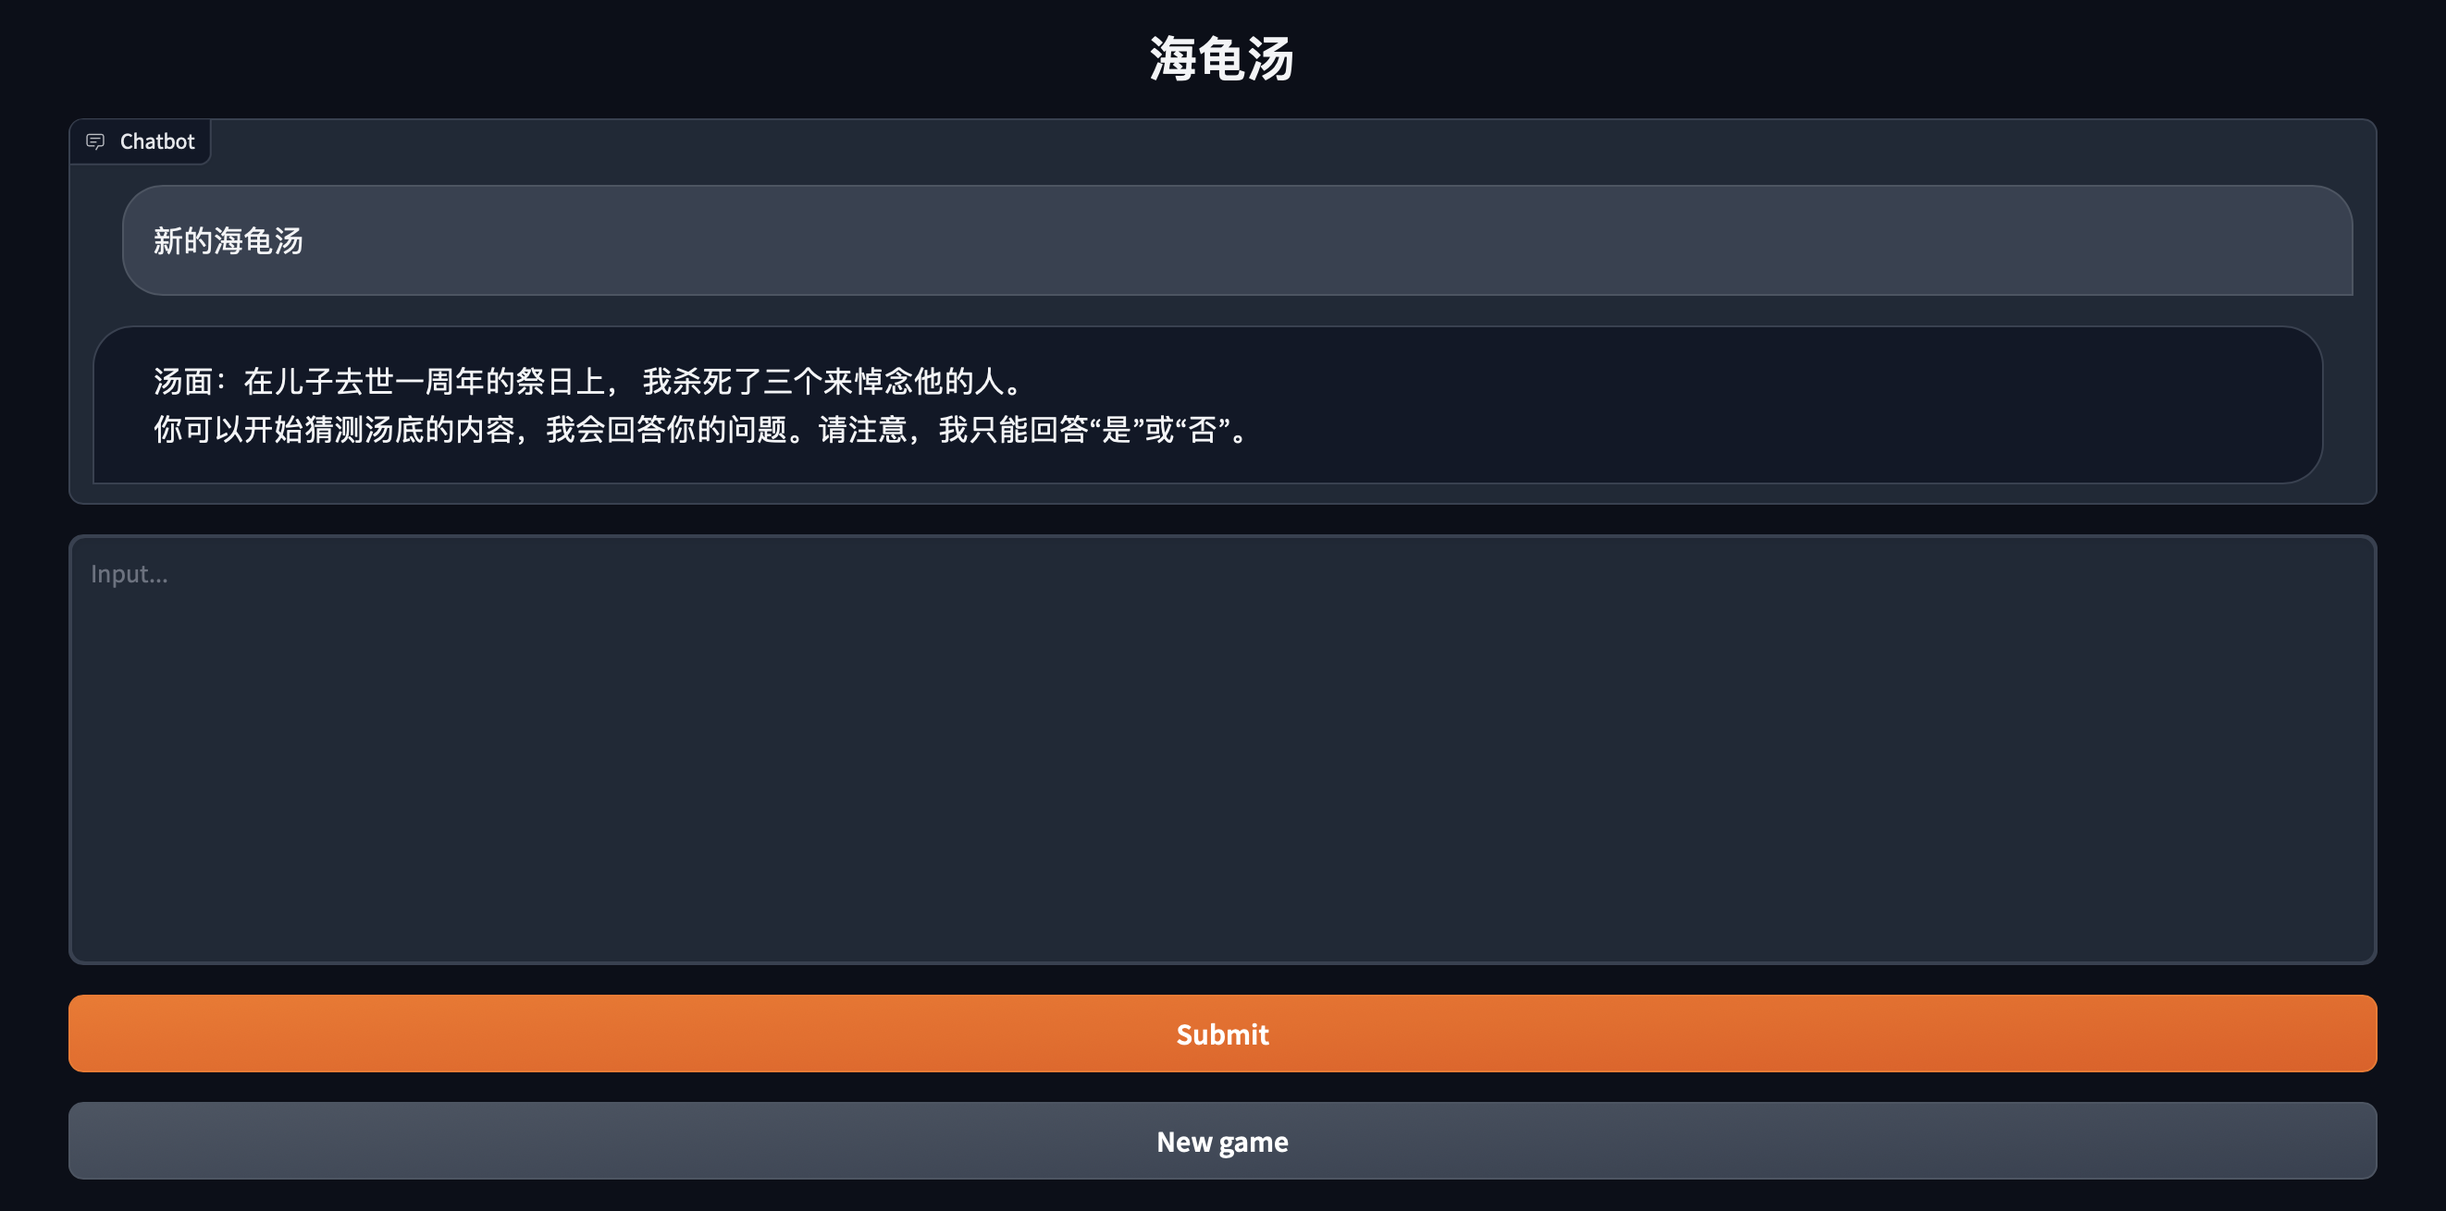
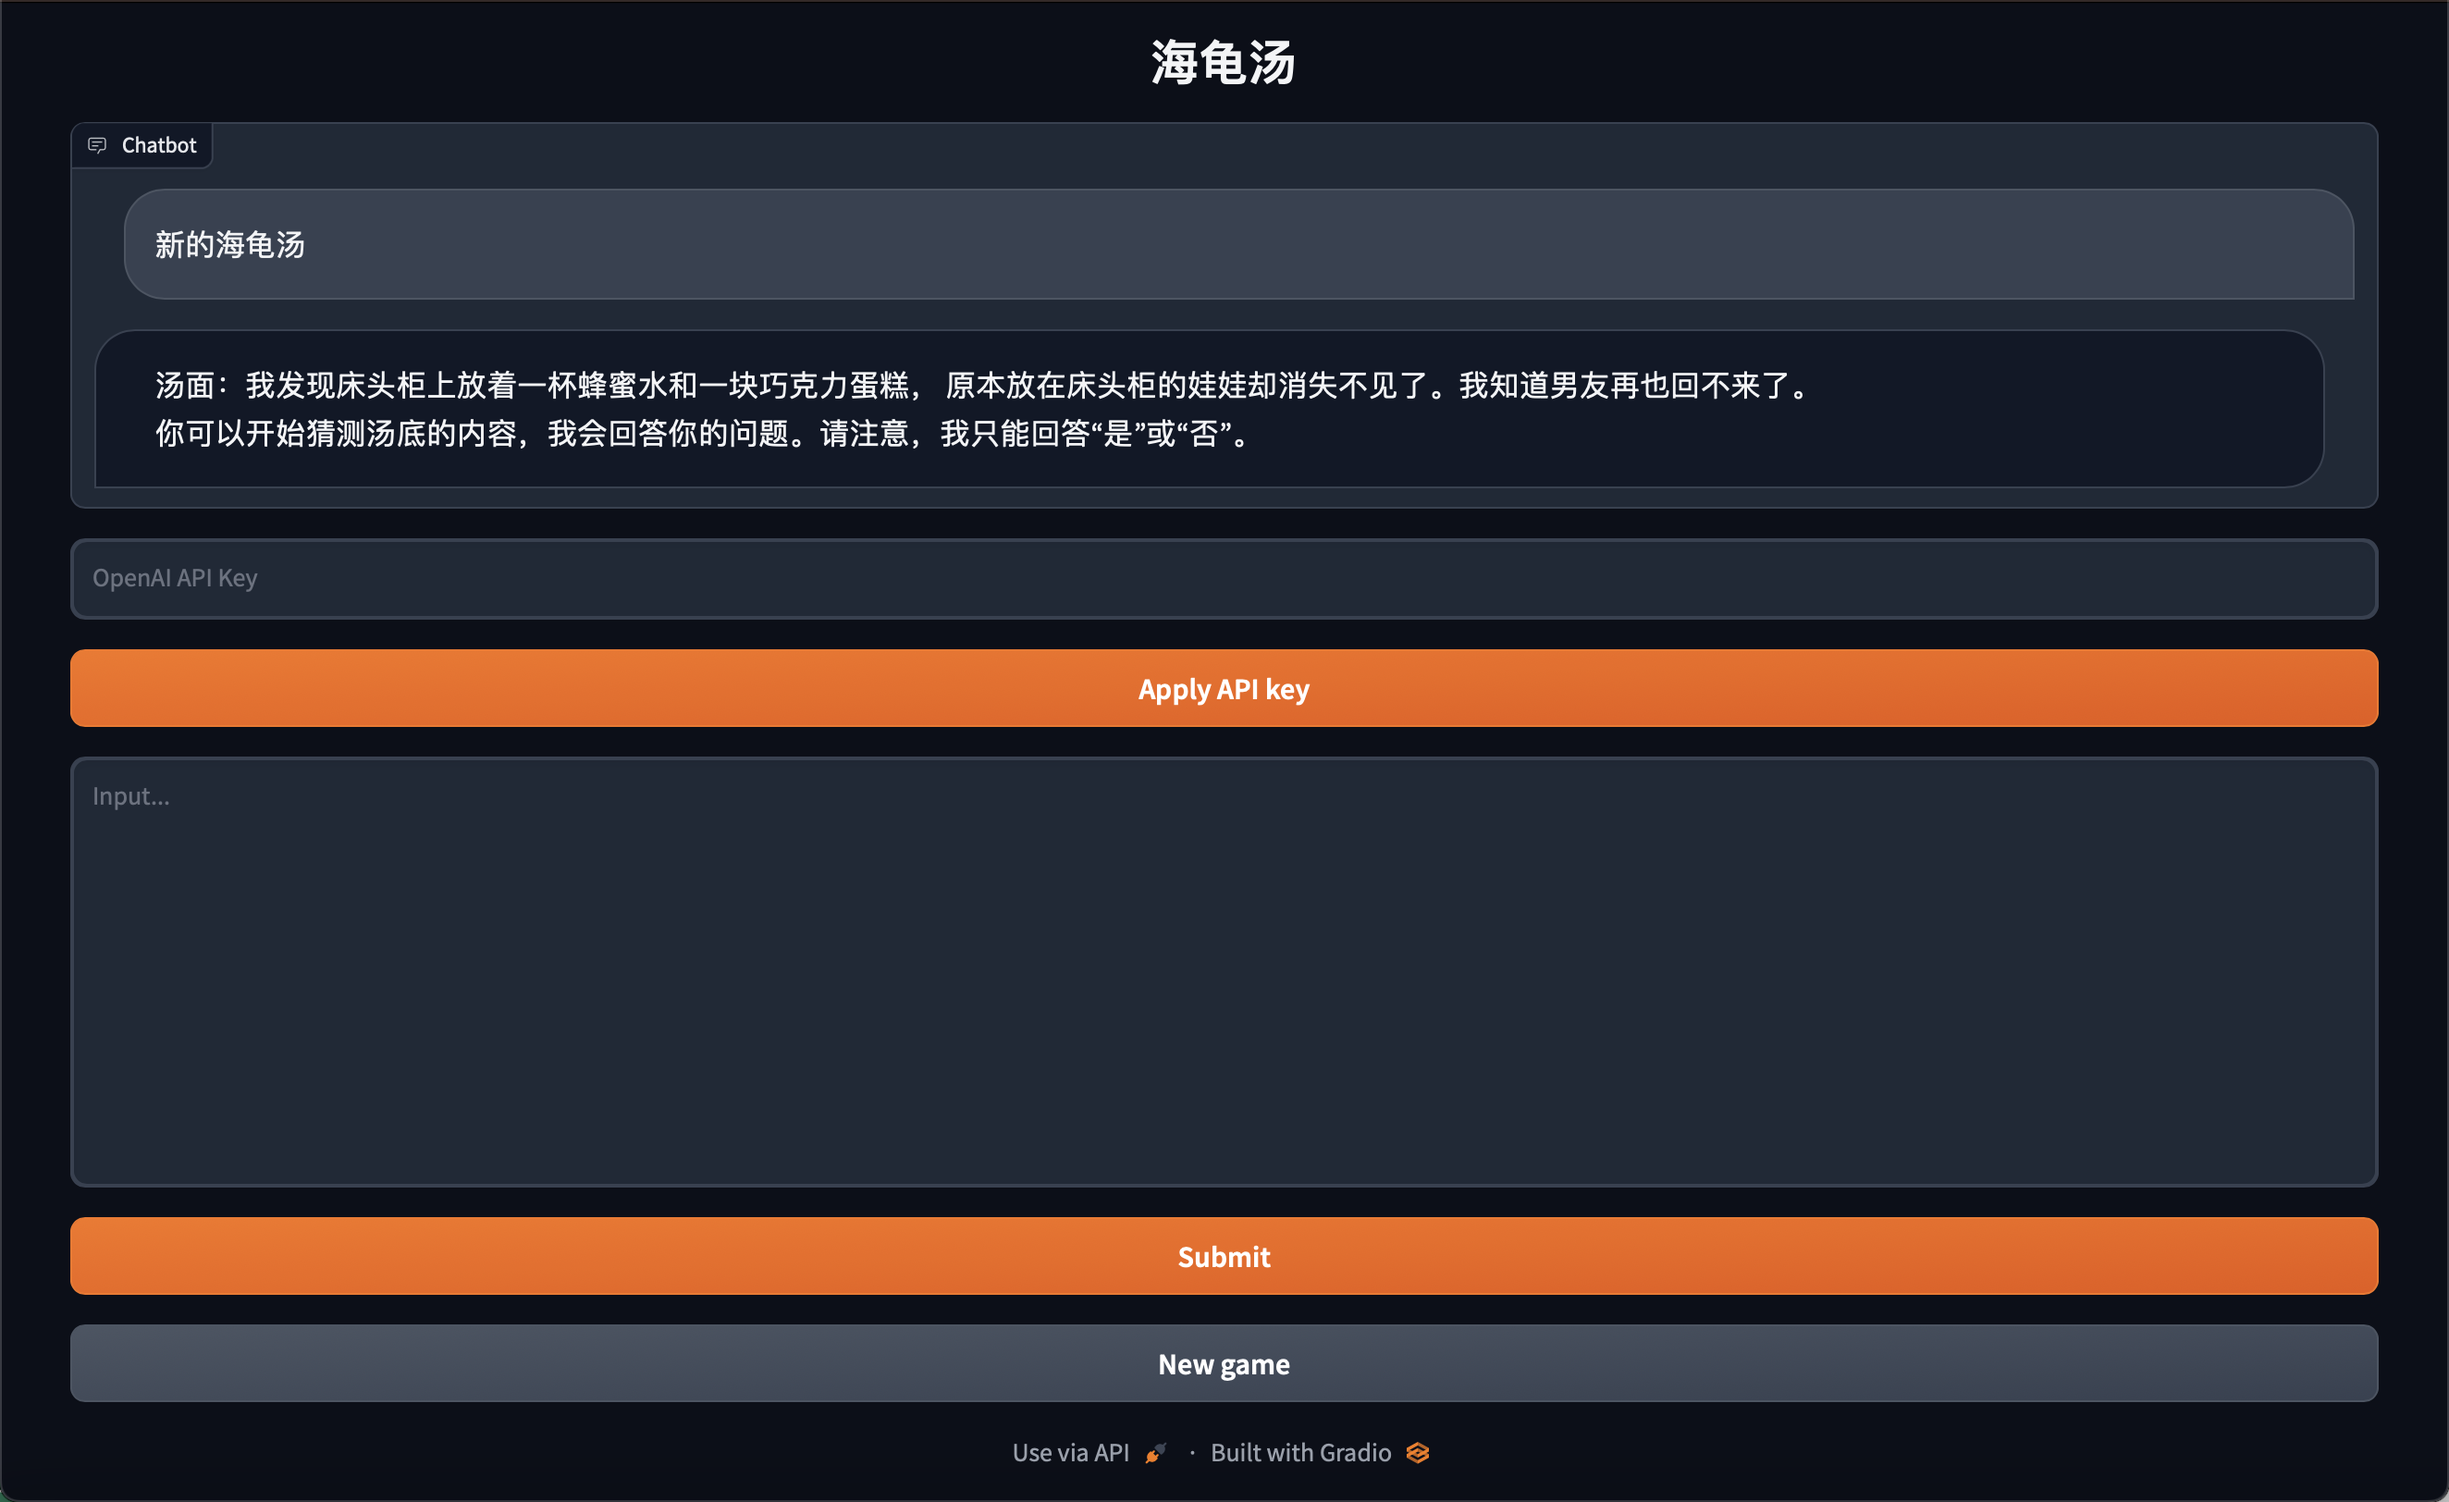
add api input

diff --git a/web_demo_en.py b/web_demo_en.py
@@ -4,7 +4,6 @@ import pandas as pd
 import random as rd
 import os
 import openai
-openai.api_key = "your-openai-api-key"
 
 def postprocess(self, y):
     if y is None:
@@ -86,6 +85,10 @@ def reset_state():
     ]
     return chatbot, messages
 
+def apply_apikey(apikey):
+    openai.api_key = apikey
+    return gr.update(value='')
+
 
 table = pd.read_excel("data/puzzle_en.xlsx")
 question_num = table.values.shape[0]
@@ -100,6 +103,9 @@ with gr.Blocks() as demo:
     chatbot = gr.Chatbot([("New Lateral Thinking Puzzle", f"Story: {story}\n\nYou can ask questions to get the answer. Notice that I can only reply with 'Yes' or 'No'.\n\nInput 'stop' to stop the game, 'finish' to finish the game and move on to next round.")])
     with gr.Row():
         with gr.Column(scale=4):
+            api_key = gr.Textbox(show_label=False, placeholder="OpenAI API Key", lines=1).style(
+                container=False)
+            apiBtn = gr.Button('Apply API key', variant="primary")
             with gr.Column(scale=12):
                 user_input = gr.Textbox(show_label=False, placeholder="Input...", lines=10).style(
                     container=False)
@@ -112,6 +118,8 @@ with gr.Blocks() as demo:
         {"role": "user", "content": "Let's play a lateral thinking puzzle game!"},
         {"role": "assistant", "content": f"OK, I will provide a story, and you can ask questions to get the answer. The story is:\n{story}\n\nNotice that I can only reply with 'Yes' or 'No'."},
     ])
+
+    apiBtn.click(apply_apikey, [api_key], [api_key])
 
     submitBtn.click(predict, [user_input, chatbot, messages], [chatbot, messages],
                     show_progress=True)

diff --git a/web_demo_zh.py b/web_demo_zh.py
@@ -4,7 +4,6 @@ import pandas as pd
 import random as rd
 import os
 import openai
-openai.api_key = "your-openai-api-key"
 
 def postprocess(self, y):
     if y is None:
@@ -86,6 +85,9 @@ def reset_state():
     ]
     return chatbot, messages
 
+def apply_apikey(apikey):
+    openai.api_key = apikey
+    return gr.update(value='')
 
 table = pd.read_excel("data/puzzle_zh.xlsx")
 question_num = table.values.shape[0]
@@ -100,6 +102,9 @@ with gr.Blocks() as demo:
     chatbot = gr.Chatbot([("新的海龟汤", f"汤面：{story}\n\n你可以开始猜测汤底的内容，我会回答你的问题。请注意，我只能回答“是”或“否”。")])
     with gr.Row():
         with gr.Column(scale=4):
+            api_key = gr.Textbox(show_label=False, placeholder="OpenAI API Key", lines=1).style(
+                container=False)
+            apiBtn = gr.Button('Apply API key', variant="primary")
             with gr.Column(scale=12):
                 user_input = gr.Textbox(show_label=False, placeholder="Input...", lines=10).style(
                     container=False)
@@ -112,6 +117,8 @@ with gr.Blocks() as demo:
         {"role": "user", "content": "陪我玩海龟汤。"},
         {"role": "assistant", "content": f"好的，以下是汤面：\n{story}\n\n你可以开始猜测汤底的内容，我会回答你的问题。请注意，我只能回答“是”或“否”。"},
     ])
+
+    apiBtn.click(apply_apikey, [api_key], [api_key])
 
     submitBtn.click(predict, [user_input, chatbot, messages], [chatbot, messages],
                     show_progress=True)

diff --git a/cli_demo_en.py b/cli_demo_en.py
@@ -4,7 +4,8 @@ import openai
 import platform
 import pandas as pd
 import random as rd
-openai.api_key = "your-openai-api-key"
+apikey = input('Please enter your OpenAI API Key')
+openai.api_key = apikey
 
 os_name = platform.system()
 clear_command = 'cls' if os_name == 'Windows' else 'clear'

diff --git a/cli_demo_zh.py b/cli_demo_zh.py
@@ -4,7 +4,8 @@ import openai
 import platform
 import pandas as pd
 import random as rd
-openai.api_key = "your-openai-api-key"
+apikey = input('Please enter your OpenAI API Key')
+openai.api_key = apikey
 
 os_name = platform.system()
 clear_command = 'cls' if os_name == 'Windows' else 'clear'

diff --git a/README.md b/README.md
@@ -14,45 +14,33 @@ cd LLMTextGame
 pip install -r requirements.txt
 ```
 
-由于游戏效果演示是用gpt-3.5，所以使用前要在脚本中 `openai.api_key = "your-openai-api-key"` 填入自己的openai api key。运行脚本前需要在终端挂代理，Windows系统命令行代理：
-
-```shell
-set http_proxy=127.0.0.1:port
-set https_proxy=127.0.0.1:port
-```
-
-Mac或Linux系统命令行代理：
-
-```shell
-export http_proxy=http://127.0.0.1:port
-export https_proxy=http://127.0.0.1:port
-```
+由于游戏效果演示是用gpt-3.5，所以使用时要先在交互界面中输入自己的openai api key。
 
 ### 网页版 Demo
 
 ![web-demo](figure/web_demo.png)
 
-首先安装 Gradio：`pip install gradio`，然后将 [web_demo_zh.py](web_demo_zh.py)或英文版 [web_demo_en.py](web_demo_en.py) 的openai api行 `openai.api_key = "your-openai-api-key"` 改为自己的api，之后运行对应语言的脚本： 
+首先安装 Gradio：`pip install gradio`，然后运行仓库中的 [web_demo_zh.py](web_demo_zh.py)或英文版 [web_demo_en.py](web_demo_en.py)： 
 
 ```shell
 python web_demo_zh.py
 python web_demo_en.py
 ```
 
-程序会运行一个 Web Server，并输出地址。在浏览器中打开输出的地址即可使用。最新版 Demo 实现了打字机效果，速度体验大大提升。注意，由于国内 Gradio 的网络访问较为缓慢，启用 `demo.queue().launch(share=True, inbrowser=True)` 时所有网络会经过 Gradio 服务器转发，导致打字机体验大幅下降，现在默认启动方式已经改为 `share=False`，如有需要公网访问的需求，可以重新修改为 `share=True` 启动。
+程序会运行一个 Web Server，并输出地址。在浏览器中打开输出的地址，先在OpenAI API Key文本框中输入自己的API，点击Apply API按钮应用API，然后即可开始使用。点击New Game按钮刷新游戏。最新版 Demo 实现了打字机效果，速度体验大大提升。注意，由于国内 Gradio 的网络访问较为缓慢，启用 `demo.queue().launch(share=True, inbrowser=True)` 时所有网络会经过 Gradio 服务器转发，导致打字机体验大幅下降，现在默认启动方式已经改为 `share=False`，如有需要公网访问的需求，可以重新修改为 `share=True` 启动。
 
 ### 命令行 Demo
 
 ![cli-demo](figure/cli_demo.png)
 
-将仓库中 [cli_demo_zh.py](cli_demo_zh.py)或英文版[cli_demo_en.py](cli_demo_en.py) 的openai api行 `openai.api_key = "your-openai-api-key"` 改为自己的api，之后运行对应语言的脚本：
+运行仓库中 [cli_demo_zh.py](cli_demo_zh.py)或英文版[cli_demo_en.py](cli_demo_en.py)：
 
 ```shell
 python cli_demo_zh.py
 python cli_demo_en.py
 ```
 
-程序会在命令行中进行交互式的对话，在命令行中输入指示并回车即可生成回复，输入 `finish` 可以清空对话历史开始新游戏，输入 `stop` 终止程序。
+程序会在命令行中进行交互式的对话，首先会要求输入OpenAI API Key，然后在命令行中用户可以开始游戏，输入 `finish` 可以清空对话历史并开始新游戏，输入 `stop` 终止程序。
 
 ## 协议
 

diff --git a/README_en.md b/README_en.md
@@ -14,7 +14,7 @@ cd LLMTextGame
 pip install -r requirements.txt
 ```
 
-We use gpt-3.5 in the demo. Before using the demo, paste your openai api key at `openai.api_key = "your-openai-api-key"`. 
+We use gpt-3.5 in the demo.
 
 ### Web Demo
 
@@ -27,7 +27,7 @@ python web_demo_en.py
 python web_demo_zh.py
 ```
 
-The program runs a web server and outputs the URL. Open the URL in the browser to use the web demo.
+The program runs a web server and outputs the URL. Open the URL in the browser to use the web demo. You need to enter your OpenAI API Key first to guarantee regular service.
 
 ### CLI Demo
 
@@ -40,7 +40,7 @@ python cli_demo_en.py
 python cli_demo_zh.py
 ```
 
-The command runs an interactive program in the shell. Type your instruction in the shell and hit enter to generate the response. Type `finish` to start a new game and clear the dialogue history and `stop` to terminate the program.
+The command runs an interactive program in the shell. You will need to enter OpenAI API Key first to play. Type `finish` to start a new game and clear the dialogue history and `stop` to terminate the program.
 
 ## License
 
